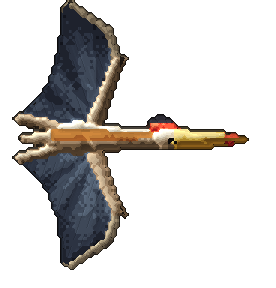
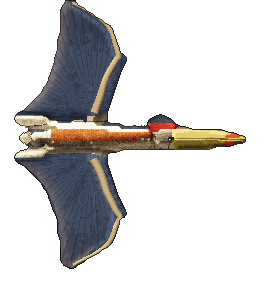
Flying Quetzalcoatlus painted in HD: slate membranes, bone-edged
The wings' membrane fans out in fibres from the shoulder, darkens to the
tip and lets a warm light through its trailing edge; the arm and the
long finger read as one pale bone along the leading edge. Furred cream
and orange neck, the red crest lit as a plate under its dark crown, a
glossy yellow beak tipped red.

Changed region(s): [[0.029, 0.0, 0.8986, 0.9375]]

diff --git a/internal/dinopaint/ptero.go b/internal/dinopaint/ptero.go
@@ -102,3 +102,87 @@ func pts3(xy []float64, r float64) [][3]float64 {
 	}
 	return out
 }
+
+// Quetzalcoatlus. dinos/quetzal_fly.png, 92 x 96: flying, seen from above
+// as the Pteranodon is, its slate wings edged in pale bone, a cream and
+// orange neck, a red crest with a dark crown and a long yellow beak tipped
+// red. Its rig is "quetzalFly": the wings turn about (30.2, 36.1) and
+// (30.2, 55.9).
+
+var (
+	quetzalWing  = []uint32{0x0e1018, 0x161a24, 0x1e2432, 0x283040, 0x323c50, 0x3e4a60, 0x4c5a72, 0x5e6c84}
+	quetzalGlow  = []uint32{0x2a2630, 0x3e3640, 0x58484e, 0x765a5a, 0x946e64, 0xb08672, 0xc8a084, 0xdcbc9c}
+	quetzalTaupe = []uint32{0x221a14, 0x34281e, 0x483a2a, 0x5e4c38, 0x766048, 0x8e785a, 0xa6906e, 0xbca886}
+	quetzalOrng  = []uint32{0x3a160a, 0x5a2210, 0x7c3216, 0x9e461e, 0xbc5c28, 0xd27634, 0xe49446, 0xf2b462}
+	quetzalRed   = []uint32{0x300808, 0x4c0c0e, 0x6c1214, 0x8e1a1a, 0xb02620, 0xcc3a2a, 0xe2563a, 0xf27c54}
+	quetzalSlate = []uint32{0x101014, 0x18181e, 0x22222a, 0x2e2e38, 0x3a3a46, 0x484856, 0x585868, 0x6a6a7c}
+)
+
+func init() { Register(quetzalFly()) }
+
+func quetzalFly() *Species {
+	farBone := []float64{31.5, 37.6, 33.5, 32, 35, 27, 36.6, 23.6, 38.5, 20.4, 39.6, 18.4, 38.6, 15, 37.6, 11.5, 35.8, 8.4, 32.6, 5.6, 28, 2.8, 24, 0.9}
+	nearBone := []float64{31, 53, 33, 56.5, 34.6, 60.5, 35.6, 64, 37.6, 68, 38.8, 70.5, 40, 72.5, 38.8, 75, 37.8, 78, 35.8, 81.5, 31.8, 84.5, 27.6, 86.6, 24.4, 88.4}
+	farWing := Poly(22, -0.5, 25.5, 0.8, 30, 3, 34, 5.6, 37.6, 8.6, 39, 12, 40, 16, 42.5, 18.8, 41.5, 22, 39.5, 27, 37.6, 32, 36, 36.6, 34, 38.6,
+		29, 38.6, 5, 38.4, 7, 36, 12, 32, 16, 26.5, 18.4, 19, 19.5, 12, 20, 4)
+	nearWing := Poly(30, 51, 35.5, 52.5, 37, 58, 39.5, 64.5, 41.4, 69.5, 42.4, 71.6, 41, 74, 39.6, 77, 37, 81.5, 33, 84, 28.5, 86.8, 25, 88.6,
+		23.5, 89.6, 20.6, 88, 20, 80, 19.5, 74, 18, 68, 15.5, 63, 12, 58.5, 8.5, 55.5, 5.5, 53.5, 4.5, 52.6, 14, 51.4)
+	body := Blend(1.5,
+		Ellipse(21, 45.2, 11, 3.6, 0),
+		Cone(30, 45, 3.0, 50, 44.6, 1.9),
+	)
+	head := Ellipse(54.6, 44.9, 3.2, 2.2, 0)
+	legs := Union(Cone(14, 39.6, 1.1, 4.5, 39.2, 0.7), Cone(15, 45.2, 1.1, 6.5, 45.4, 0.8), Cone(14, 51.4, 1.1, 4.5, 52, 0.7))
+	crest := Poly(49, 38.2, 57, 38, 58.6, 41, 57.5, 44.6, 52, 45, 49.3, 44, 48.8, 41)
+	beak := Poly(57.4, 43, 64, 43, 74, 43.6, 79.5, 44.6, 82.8, 46.2, 81.4, 47.4, 77, 48.4, 67, 49, 59, 49.2, 57.5, 47.5)
+	return &Species{
+		Name:        "quetzal_fly",
+		GuideDetail: 0.4,
+		Ink:         34,
+		Materials: []Material{
+			{Name: "wing", Seeds: []uint32{0x2c3342, 0x3e4858, 0x546274, 0x1e222d, 0x12141c}, Ramp: quetzalWing, Relief: 0.05},
+			{Name: "cream", Seeds: []uint32{0xcdb594, 0xe9dabb, 0xfbf3df, 0xd8caa8, 0xd5cfbe, 0xc6b99f, 0xb8a888}, Ramp: pteroCream},
+			{Name: "taupe", Seeds: []uint32{0xa6896a, 0x7a6044, 0x4e3c2a, 0x94846a, 0x6e604c}, Ramp: quetzalTaupe},
+			{Name: "orange", Seeds: []uint32{0xcf873c, 0xae6228, 0x86451e, 0xb07333}, Ramp: quetzalOrng},
+			{Name: "red", Seeds: []uint32{0xe85236, 0xf88a5c, 0xc22a22, 0x90181a, 0x5e0e12}, Ramp: quetzalRed},
+			{Name: "crown", Seeds: []uint32{0x34323c}, Ramp: quetzalSlate},
+			{Name: "beak", Seeds: []uint32{0xfbe694, 0xeecb5a, 0xd2a436, 0xa87a22, 0x7a5216, 0xffe27a}, Ramp: pteroBeak, Relief: 0.3, Region: beak, Over: true,
+				Only: []string{"cream", "taupe", "orange", "wing"}},
+		},
+		Recolor: []Recolor{
+			{Region: Union(farWing, nearWing), From: []string{"cream", "taupe", "orange"}, To: "wing"}, // the leading edge is painted as bone
+			{Region: Poly(0, 0, 92, 0, 92, 37.6, 0, 37.6), From: []string{"crown"}, To: "wing"},
+		},
+		Parts: []Part{
+			{Name: "farWing", Shape: farWing, Round: 2, Soft: 0.8, Scale: 0.8},
+			{Name: "nearWing", Shape: nearWing, Round: 2, Soft: 0.8, Scale: 0.8},
+			{Name: "legs", Shape: legs, Round: 0.9, Soft: 0.5, Scale: 0.5, Mat: "cream"},
+			{Name: "body", Shape: body, Round: 3, Soft: 0.7, Muscles: []Muscle{
+				Mu(22, 44.6, 7, 2.4, 0, 0.7),
+			}},
+			{Name: "head", Shape: head, Round: 1.8, Soft: 0.5, Scale: 0.5, Muscles: []Muscle{Mu(54.4, 44.2, 2, 1.2, 0, 0.5)}},
+			{Name: "crest", Shape: crest, Round: 1, Soft: 0.5, Scale: 0.6},
+			{Name: "beak", Shape: beak, Round: 1.1, Soft: 0.4, Scale: 0.5},
+		},
+		Skin: Skin{Flank: 1.0, Back: 1.2, Belly: 0.9, BackDepth: 1, BellyDepth: 1, Relief: 0.5, Seed: 59},
+		Details: func(p *Painter) {
+			p.Plumage(&Plumage{Seed: 29, Edge: 0.35, Tracts: []Tract{
+				{Name: "fur", Region: Poly(8, 40.4, 49.6, 41, 50, 48.6, 8, 49.6), Parts: []string{"body"},
+					Flow: Along(50, 44.6, 40, 44.6, 30, 44.8, 20, 45, 9, 45.5), Len: 1.4, Wid: 0.6, Hair: true, Relief: 0.8, Fluff: 0.3, Snap: true},
+			}})
+			wing := func(region SDF, bone []float64, fan Coords, free SDF) {
+				p.Membrane(MembraneSpec{Region: region, Mat: []string{"wing"},
+					Fibres: fan, Gap: 1.25, Fibre: 0.12, Flat: 0.55, Distal: 0.12, DistalFrom: 18, DistalTo: 36,
+					Camber: Path(pts3(bone, 0)...), Glow: 0.5, GlowW: 2.2, GlowRamp: quetzalGlow, Free: free,
+					Bones: []Bone{{Pts: bone, R: 1.35, R1: 0.5, Ramp: pteroBone}}, Seed: 9})
+			}
+			wing(farWing, farBone, Fan(31, 38, 14, -1.78), Poly(-1, -1, 22, -1, 37, 20, 33, 37, -1, 37))
+			wing(nearWing, nearBone, Fan(31, 53, 14, 1.77), Poly(-1, 97, 22, 97, 38, 72, 33, 54, -1, 54))
+			p.Plane(PlaneSpec{Region: crest, Mat: []string{"red", "crown"}, Tilt: 0.8, Angle: 0.1, Gap: 1.0, Lines: 0.06,
+				FromX: 57, FromY: 40, Fall: 0.03, Seed: 11})
+			p.Beak(BeakSpec{Mat: "beak", Ridge: []float64{57.6, 43.1, 66, 43.2, 75, 43.9, 82.6, 46.1}, Mouth: []float64{58, 46.1, 68, 46.2, 77, 46.4, 82, 46.7},
+				Gloss: 0.22, LowerShadow: 0.3, GrainSeed: 9})
+			p.Eye(EyeSpec{X: 57, Y: 46.6, R: 0.7, Iris: pteroEye, Lid: 0.15, Squint: 1.1})
+		},
+	}
+}
